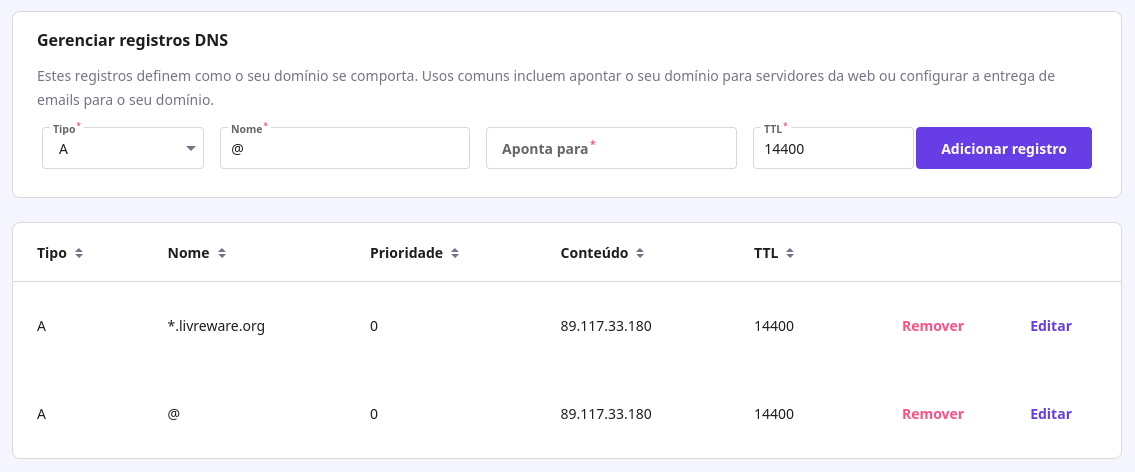
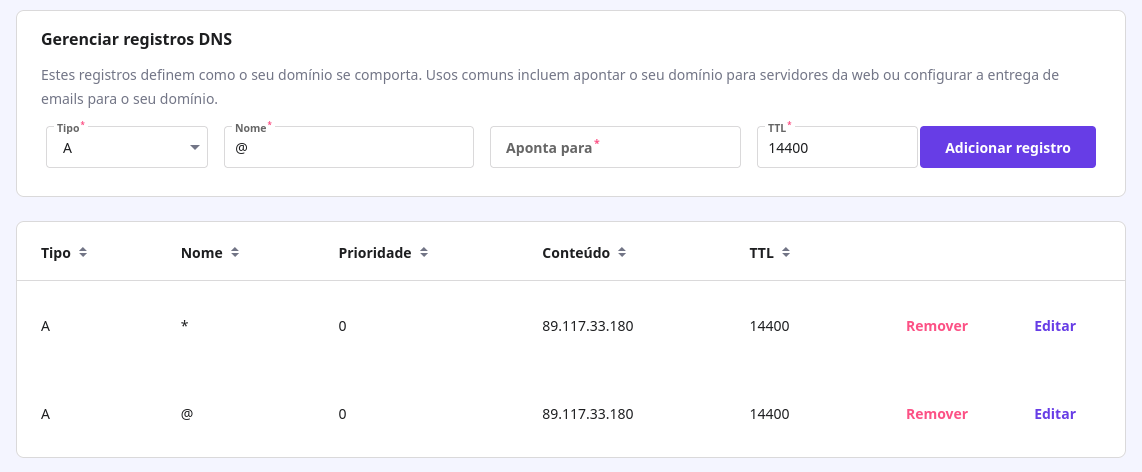
correção sobre subdomínios com wildcards

diff --git a/site/basico/dns.html b/site/basico/dns.html
@@ -22,11 +22,11 @@
 		<figure>
 			<a href="../img/ip.png"><img src="../img/ip.png" width=750></a>
 		</figure>
-		<p>Copie o endereço IPv4. Na página de DNS, adicione dois registros do tipo A, que apontam para o IP que você copiou, cujos nomes são "seudominio.com" e "*.seudominio.com". A sua tela deve mostrar algo assim.</p>
+		<p>Copie o endereço IPv4. Na página de DNS, adicione dois registros do tipo A, que apontam para o IP que você copiou, cujos nomes são "seudominio.com" e "*". A sua tela deve mostrar algo assim.</p>
 		<figure>
 			<a href="../img/dns-ipv4.png"><img src="../img/dns-ipv4.png" width=750></a>
 		</figure>
-		<p>O registro com um "@" no nome signifca simplesmente o seu domínio, no meu caso <code>livreware.org</code>. "@" é só um apelido do domínio sendo configurado. O outro registro, <code>*.livreware.org</code> significa que qualquer subdomínio que seja adicionado no futuro, como <code>mail.livreware.org</code> ou <code>blog.livreware.org</code>, será direcionado ao IP correto.</p>
+		<p>O registro com um "@" no nome signifca simplesmente o seu domínio, no meu caso <code>livreware.org</code>. "@" é só um apelido do domínio sendo configurado. O outro registro, "*" significa que qualquer subdomínio que seja adicionado no futuro, como <code>mail.livreware.org</code> ou <code>blog.livreware.org</code>, será direcionado ao IP correto.</p>
 		<p>Faça agora a mesma coisa com o endereço IPv6, estes usam um tipo de registro AAAA. Sua página deve ficar assim.</p>
 		<figure>
 			<a href="../img/dns-ipv6.png"><img src="../img/dns-ipv6.png" width=750></a>
